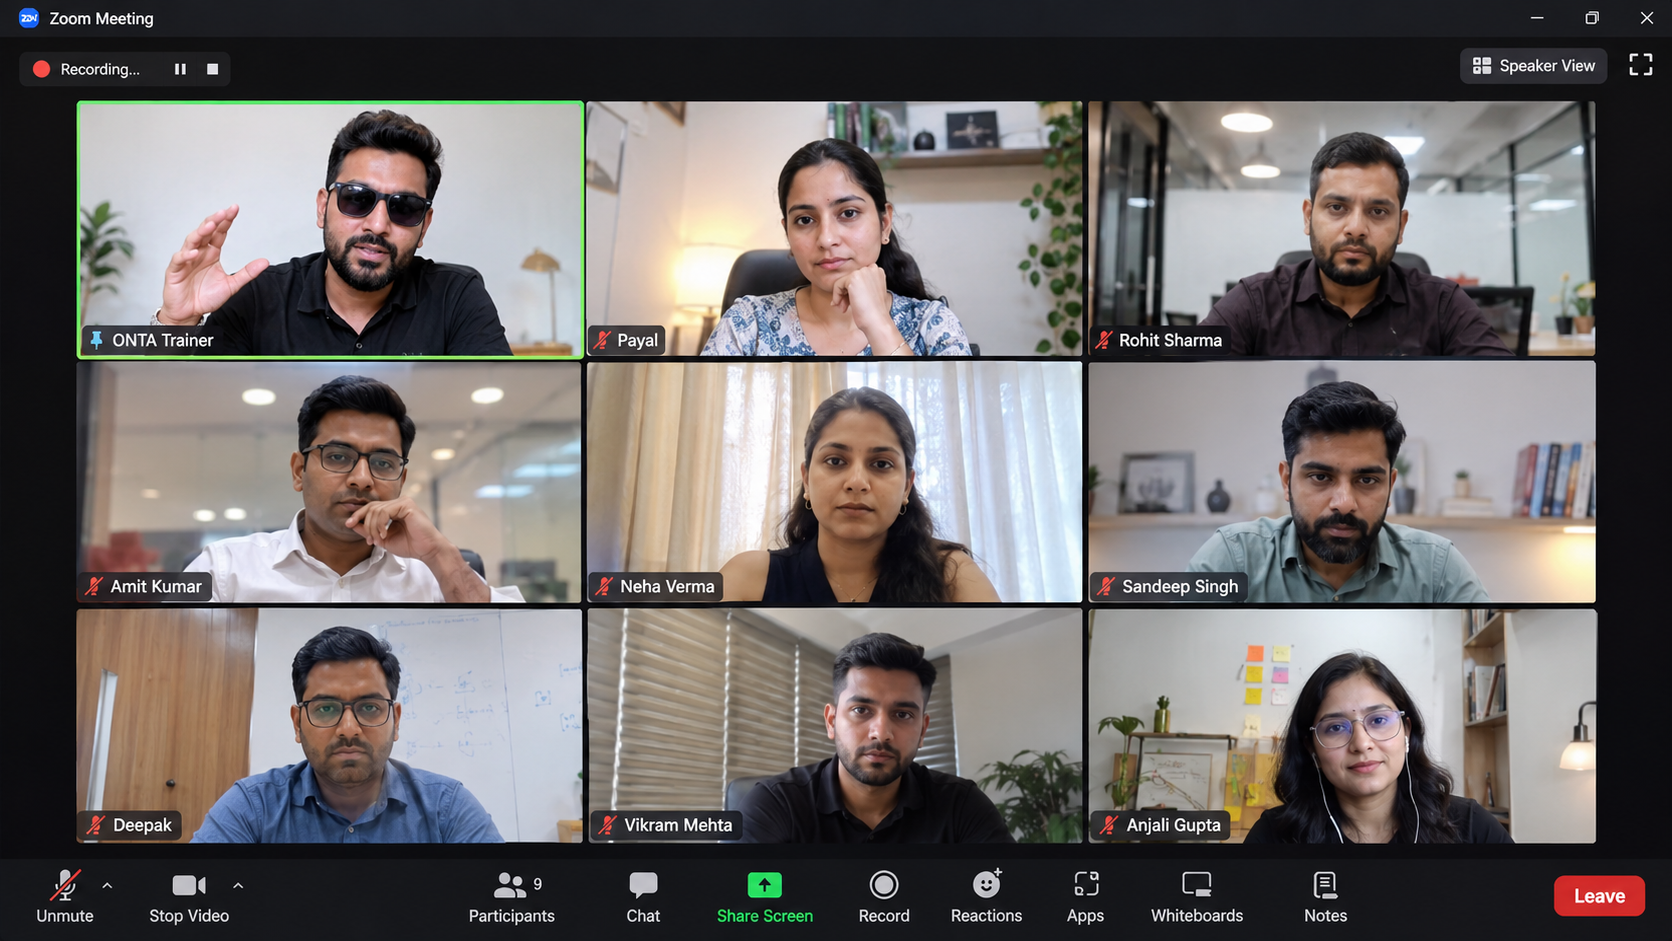
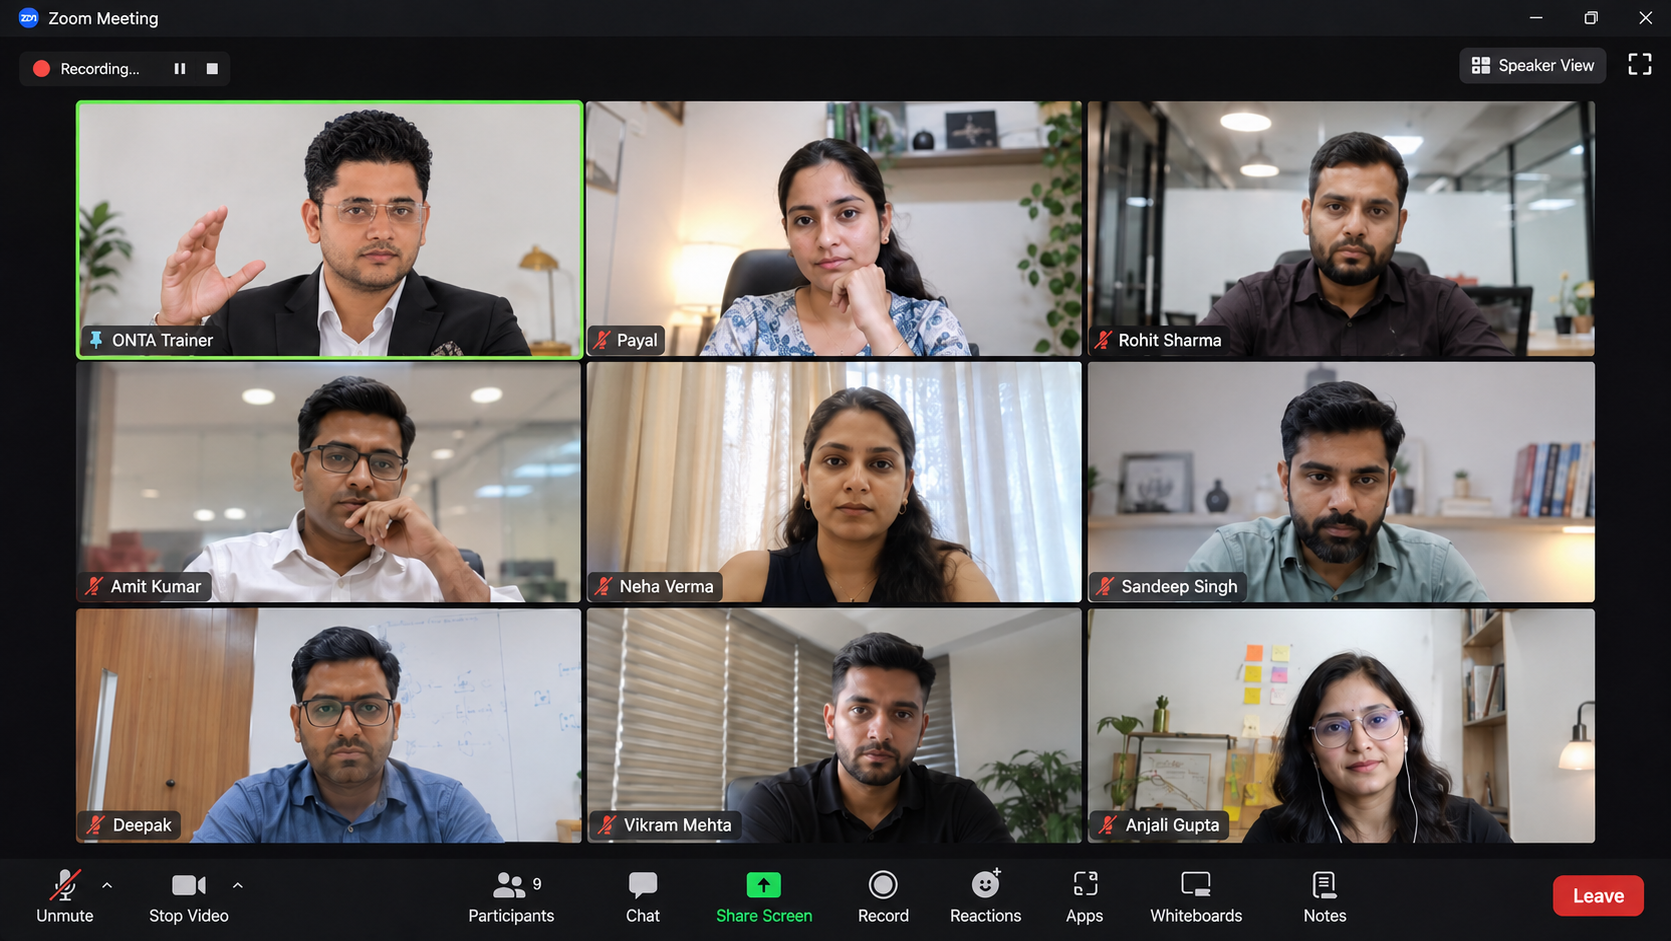
Update Founder Desk session imagery

diff --git a/src/app/founders-desk/page.tsx b/src/app/founders-desk/page.tsx
@@ -7,7 +7,7 @@ export const metadata=createPageMetadata({
   title:"Avanish Yadav, Founder and Financial Markets Educator",
   description:"Meet Avanish Yadav, Founder and CEO of Corpenta Global, and learn about his financial markets education experience, areas of expertise and global vision.",
   path:"/founders-desk",
-  image:"/founder%27s%20desk/founder.png",
+  image:"/founder.png",
   imageWidth:888,
   imageHeight:1006,
   imageAlt:"Avanish Yadav, Founder and CEO of Corpenta Global",
@@ -58,23 +58,24 @@ const offlineSeminars:{src:string;alt:string;width:number;height:number}[]=[
 ];
 
 const onlineSessions:{src:string;alt:string;width:number;height:number}[]=[
-  {src:"/sessions/Zoomlive.jpeg",alt:"Participants attending an online financial education session.",width:1600,height:900},
-  {src:"/sessions/zoomlive2.png",alt:"Attendees in a live online learning session.",width:1672,height:941},
-  {src:"/sessions/zoomlive3.png",alt:"Participants joining a remote learning session.",width:1672,height:941},
-  {src:"/sessions/zoomlive5.png",alt:"Online participants follow a lesson on market structure and higher highs and higher lows.",width:1672,height:941},
-  {src:"/sessions/zoomlive6.png",alt:"Avanish leads a live online session with participants joining by video.",width:1672,height:941},
-  {src:"/sessions/zoomlive7.png",alt:"Online participants join a live financial markets learning session on Zoom.",width:1672,height:941},
-  {src:"/sessions/zoomlive8.png",alt:"A live online trading lesson with a market chart and video participants.",width:1672,height:941},
-  {src:"/sessions/zoomlive9.png",alt:"A Zoom group follows a shared currency chart during an online session.",width:1536,height:1024},
+  {src:"/sessions/Zoomlive.png?v=2",alt:"Participants attending an online financial education session.",width:1672,height:941},
+  {src:"/sessions/zoomlive2.png?v=2",alt:"Attendees in a live online learning session.",width:1672,height:941},
+  {src:"/sessions/zoomlive3.png?v=2",alt:"Participants joining a remote learning session.",width:1672,height:941},
+  {src:"/sessions/zoomlive4.png?v=2",alt:"Participants attending a live financial markets learning session.",width:1672,height:941},
+  {src:"/sessions/zoomlive5.png?v=2",alt:"Online participants follow a lesson on market structure and higher highs and higher lows.",width:1672,height:941},
+  {src:"/sessions/zoomlive6.png?v=2",alt:"Avanish leads a live online session with participants joining by video.",width:1672,height:941},
+  {src:"/sessions/zoomlive7.png?v=2",alt:"Online participants join a live financial markets learning session on Zoom.",width:1672,height:941},
+  {src:"/sessions/zoomlive8.png?v=2",alt:"A live online trading lesson with a market chart and video participants.",width:1672,height:941},
+  {src:"/sessions/zoomlive9.png?v=2",alt:"A Zoom group follows a shared currency chart during an online session.",width:1536,height:1024},
 ];
 
 export default function FoundersDeskPage(){
-  const personSchema={"@context":"https://schema.org","@type":"Person","@id":`${SITE_URL}/founders-desk#avanish-yadav`,name:"Avanish Yadav",jobTitle:"Founder & CEO | Global Financial Markets Educator",image:`${SITE_URL}/founder%27s%20desk/founder.png`,worksFor:{"@id":`${SITE_URL}/#organization`},url:`${SITE_URL}/founders-desk`};
+  const personSchema={"@context":"https://schema.org","@type":"Person","@id":`${SITE_URL}/founders-desk#avanish-yadav`,name:"Avanish Yadav",jobTitle:"Founder & CEO | Global Financial Markets Educator",image:`${SITE_URL}/founder.png`,worksFor:{"@id":`${SITE_URL}/#organization`},url:`${SITE_URL}/founders-desk`};
   return <main className="page-main wrap founders-desk-page" data-market-scene="network">
     <script type="application/ld+json" dangerouslySetInnerHTML={{__html:jsonLdScript(personSchema)}}/>
     <header className="founders-desk-heading" id="home">
       <span className="eyebrow">FOUNDER PROFILE</span>
-      <div className="founders-profile-hero-main"><h1>Avanish<br/><em>Yadav.</em></h1><Image className="founders-profile-photo" src="/founder%27s%20desk/founder.png" alt="Avanish Yadav, Founder and CEO" width={1672} height={941} sizes="(max-width: 640px) 34vw, 300px" priority/></div>
+      <div className="founders-profile-hero-main"><h1>Avanish<br/><em>Yadav.</em></h1><Image className="founders-profile-photo" src="/founder.png" alt="Avanish Yadav, Founder and CEO" width={1672} height={941} sizes="(max-width: 640px) 34vw, 300px" priority/></div>
       <p className="founders-desk-role">Founder &amp; CEO <span>·</span> Global Financial Markets Educator</p>
       <p className="founders-desk-intro">Empowering people through financial market knowledge, education &amp; leadership.</p>
       <div className="founders-desk-location-footprint" aria-label="Founder-led session locations">
